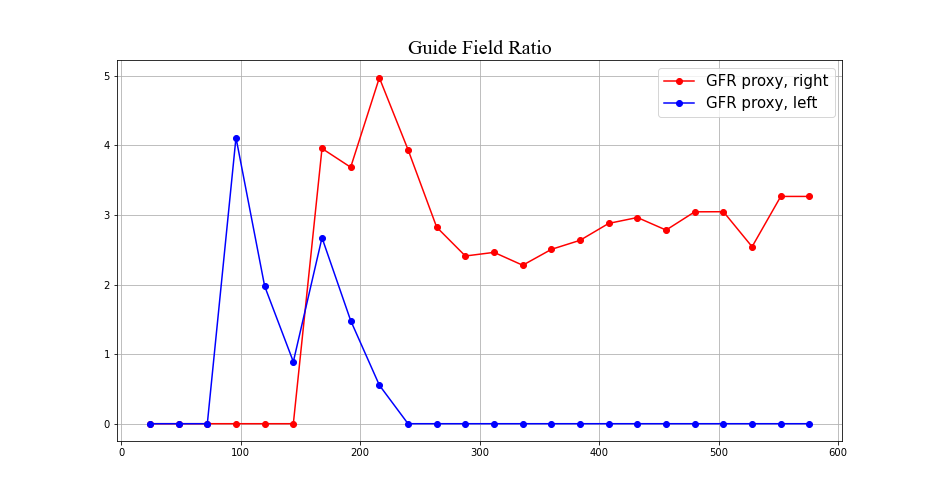
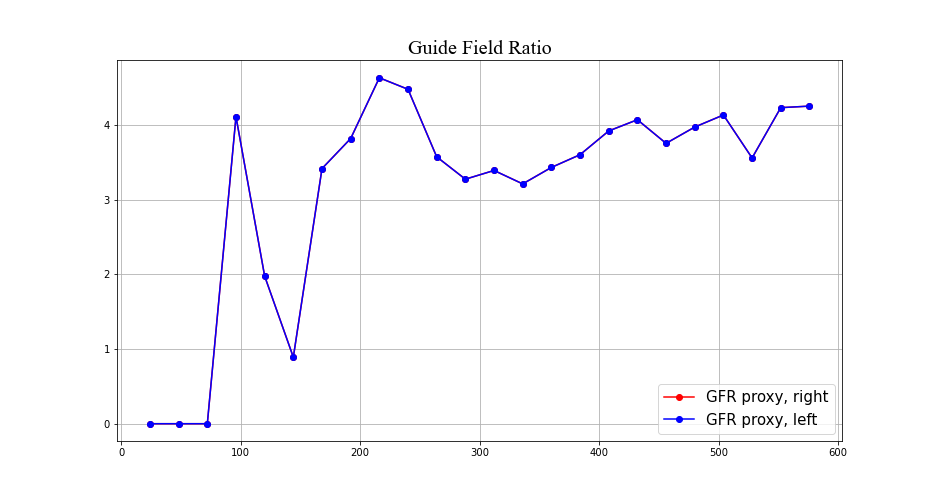
high1 shear change

diff --git a/high1_process.py b/high1_process.py
@@ -263,20 +263,19 @@ pil_right_near_pos_shear, pil_left_near_pos_shear, pil_right_near_neg_shear,\
                                                   ivs_sort, dvs_sort)
 
 # Guide field to the right and left edges of ribbons
-guide_right, guide_left = fl_funcs.guidefieldlen(pil_right_near_pos_shear,
+guide = fl_funcs.guidefieldlen_alt(pil_right_near_pos_shear,
                                                  pil_left_near_pos_shear,
                                                  pil_right_near_neg_shear,
                                                  pil_left_near_neg_shear,
                                                  sortedpil)
 
 # Guide field ratio to the right and left edges of ribbons
-left_gfr, right_gfr = fl_funcs.gfrcalc(guide_left, guide_right,
-                                       distneg_med, distpos_med)
+gfr= fl_funcs.gfrcalc_alt(guide, distneg_med, distpos_med)
 
 print("Plot guide field ratio proxy based on footpoints.")
 
 # Plot guide field ratio
-fl_funcs.plt_gfr(times, right_gfr, left_gfr, flnum, dt1600)
+fl_funcs.plt_gfr(times, gfr, gfr, flnum, dt1600)
 
 print("Fermi Processing")
 
@@ -295,7 +294,7 @@ indstrt_sep = 1
 indstrt_elon = 1
 gfr_trans = 5
 
-fl_funcs.plt_fourpanel(times, right_gfr, left_gfr, flnum, dt1600, time304,
+fl_funcs.plt_fourpanel(times, gfr, gfr, flnum, dt1600, time304,
                   filter_304, lens_pos_Mm, lens_neg_Mm, distpos_Mm, distneg_Mm,
                   dt304, timelab, conv_f,
                   elonperiod_start_pos, elonperiod_end_pos,
